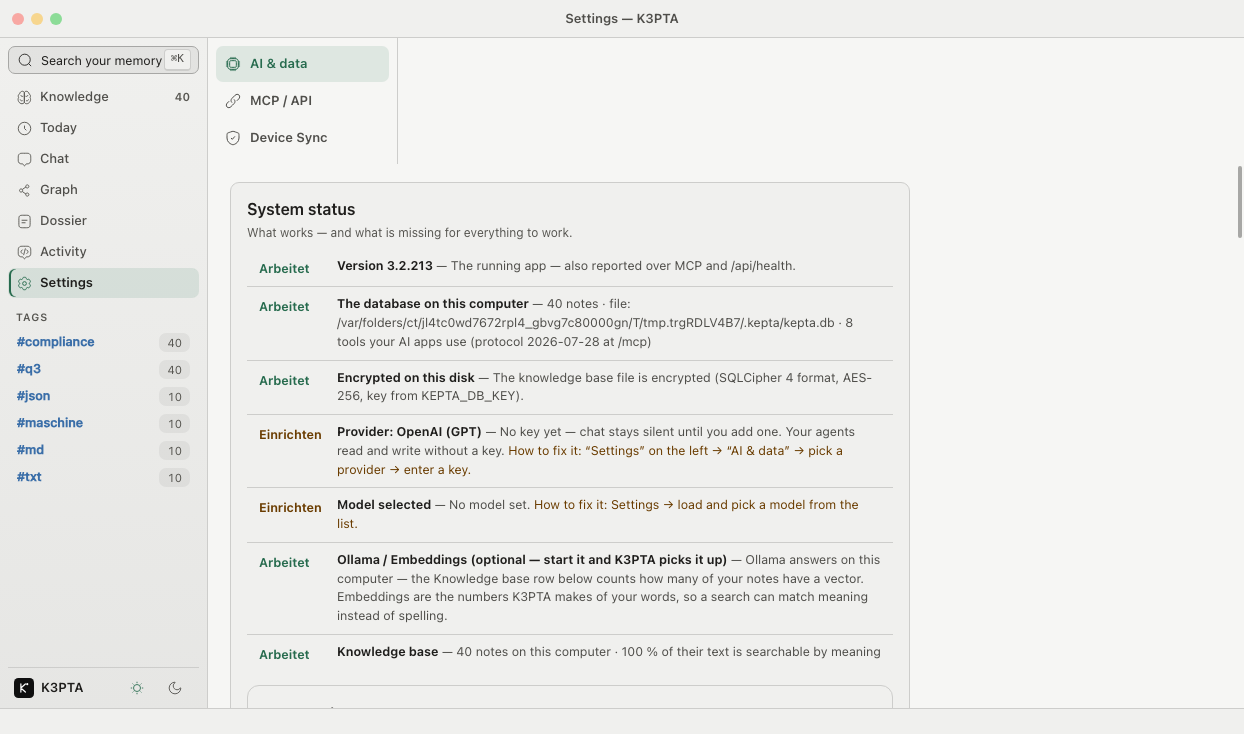
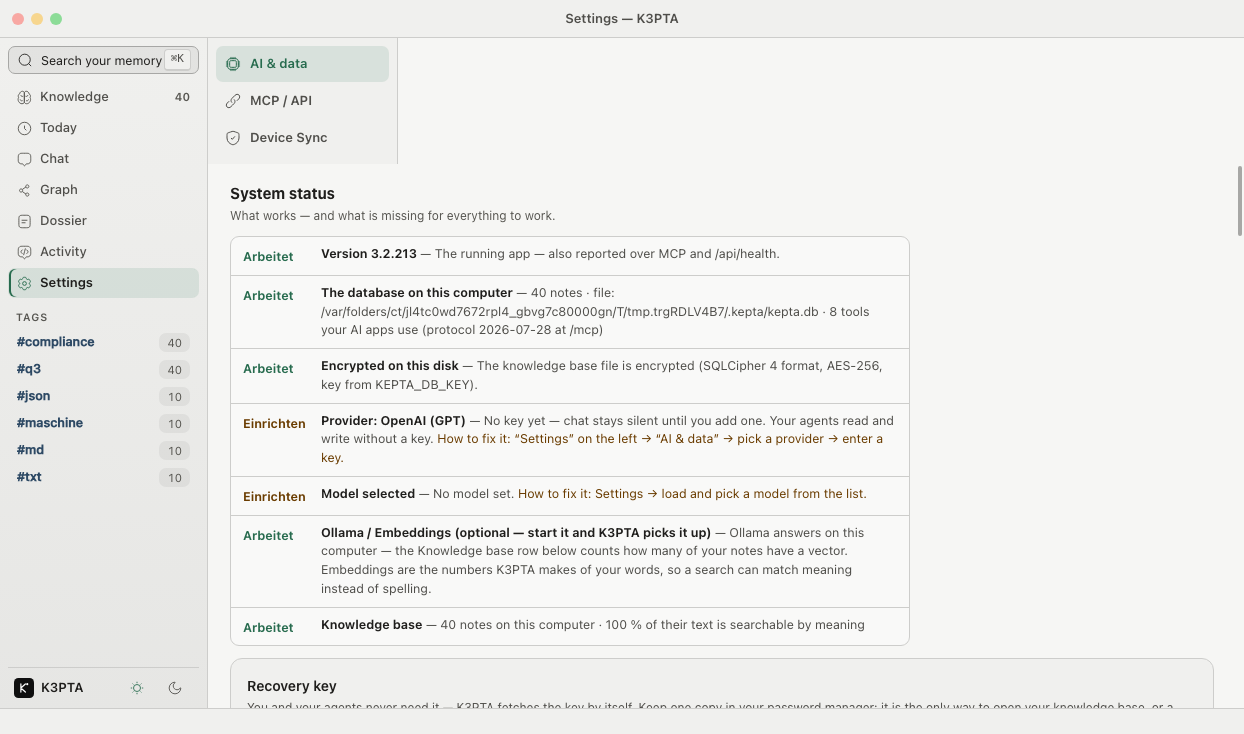
schlag (P202 Settings auf das Mockup + die Kind-Farben auf die Mockup-Werte): Damian: 'mach alles fertig' — (1) die Settings-Fläche nach s-settings: der Kopf (System status + Unter) steht FREI auf der Fläche (der Eigen-Kasten der SystemStatus-Komponente flog), der gruppen-tisch umschließt nur die Zu

diff --git a/src/index.css b/src/index.css
@@ -175,14 +175,25 @@
      härtesten Stapel; --type-*-hex ist derselbe Wert im sRGB-Kanal, den
      Leinwand (canvas.fillStyle) und Farbregler (<input type=color> verlangt
      #rrggbb) lesen. Generiert von scripts/design-wache.mjs --setzen. */
-  --type-semantic: oklch(0.3962 0.0571 247.6);
-  --type-semantic-hex: #2d4964;
-  --type-episodic: oklch(0.4060 0.0663 349.5);
-  --type-episodic-hex: #643a4f;
-  --type-procedural: oklch(0.3914 0.0553 148.0);
-  --type-procedural-hex: #304e34;
-  --type-reference: oklch(0.4016 0.0580 56.6);
-  --type-reference-hex: #604028;
+  /* P202, Damian 14.11. „100 % wie das Mockup": die Kind-Farben stehen auf den
+     Mockup-Werten (k3pta-app-fenster: #3A6EA8 / #A8742E / #2E7D5B / #A4553F) —
+     die dunkler gerechnete Lesbarkeits-Fassung ist damit zurückgedreht. */
+  --type-semantic: oklch(0.5297 0.1075 252.7);
+  --type-semantic-hex: #3a6ea8;
+  --type-episodic: oklch(0.5996 0.1072 70.9);
+  --type-episodic-hex: #a8742e;
+  --type-procedural: oklch(0.5314 0.0946 161.9);
+  --type-procedural-hex: #2e7d5b;
+  --type-reference: oklch(0.5399 0.1099 36.5);
+  --type-reference-hex: #a4553f;
+  /* Die Schrift-Fassung der Kind-Farben (P202): wo die Farbe als SCHRIFT steht
+     (die Tag-Zeile, die Träger-Zeile), trägt die dunklere, lesbarere Abwandlung
+     — der Farbton bleibt, die Helligkeit hält 4,5:1 auf dem hellen Papier. Die
+     Fläche-Anwendungen (die Punkte, die Pillen-Gründe) tragen den Roh-Ton. */
+  --type-semantic-text: #2d4964;
+  --type-episodic-text: #643a4f;
+  --type-procedural-text: #304e34;
+  --type-reference-text: #604028;
   /* Ein Knoten ohne Art ist kein Knoten ohne Farbe: der Fallback stand als
      Hartwert in der Fläche (#9a9a9a). Neutralton der Marke, Stufe gerechnet. */
   --type-neutral: oklch(0.3955 0.0000 89.9);
@@ -395,6 +406,12 @@
   --type-procedural-hex: #8fb89a;
   --type-reference: oklch(0.7463 0.0570 65.8);
   --type-reference-hex: #c6a687;
+  /* Die Schrift-Fassung im dunklen Thema: die hellere Fassung selbst (die
+     dunkle-Fassung-Werte halten 4,5:1 auf dem dunklen Papier). */
+  --type-semantic-text: #9cadc4;
+  --type-episodic-text: #c6a1ba;
+  --type-procedural-text: #8fb89a;
+  --type-reference-text: #c6a687;
   /* Ein Knoten ohne Art ist kein Knoten ohne Farbe — der Fallback stand als
      Hartwert in der Fläche (#9a9a9a). Neutralton, Stufe gerechnet. */
   --type-neutral: oklch(0.7436 0.0000 89.9);
@@ -971,6 +988,18 @@ select:focus-visible {
 }
 .app-name { font-size: var(--fs-2); font-weight: var(--fw-halbfest); white-space: nowrap; overflow: hidden; text-overflow: ellipsis; }
 .app-zustand { font-size: var(--fs-1); color: var(--text-3); white-space: nowrap; overflow: hidden; text-overflow: ellipsis; }
+/* P202, Mockup .farbwahl-zeile .sw: der Farbwähler-Fleck in der Settings-
+   Farben-Zeile — die Maße trägt die Mockup-Maß-Schicht (10×10, r3). */
+.sw-input {
+  -webkit-appearance: none;
+  appearance: none;
+  width: 12px;
+  height: 12px;
+  padding: 0;
+  border: none;
+  background: none;
+  cursor: pointer;
+}
 
 /* Die Zeile ist das zeile-item des Mockups (k3pta-app-fenster): farbiger
    Art-Punkt, Titel in Sans in EINER Zeile, Vorschau in einer Zeile, rechts

diff --git a/src/components/Settings.tsx b/src/components/Settings.tsx
@@ -179,9 +179,11 @@ function TypFarbenReihe() {
     });
   }, []);
   return (
-    <div className="flex items-start gap-5 flex-wrap">
+    /* P202, Mockup-Grammatik (s-settings .farbwahl-zeile): die Farben stehen als
+       Zeilen im Tisch — der Fleck (der Farbwähler) · der Name · der Hex-Wert. */
+    <div className="gruppen-tisch" style={{ maxWidth: 680, marginTop: 12 }}>
       {TYP_ROLLEN.map((rolle) => (
-        <label key={rolle} className="flex flex-col items-center gap-1 cursor-pointer select-none">
+        <label key={rolle} className="farbwahl-zeile cursor-pointer select-none">
           <input
             type="color"
             value={farben[rolle] ?? "#cccccc"}
@@ -191,10 +193,11 @@ function TypFarbenReihe() {
             }}
             aria-label={`Colour for ${TYP_BESCHREIBUNG[rolle]}`}
             title="Colours the dots, the card ridge and the type label everywhere."
-            className="graph-swatch"
+            className="sw-input"
             style={{ color: `var(--type-${rolle})`, pointerEvents: "auto" }}
           />
-          <span className="fs-2" style={{ color: "var(--text-2)" }}>{TYP_BESCHREIBUNG[rolle]}</span>
+          <span className="name">{TYP_BESCHREIBUNG[rolle]}</span>
+          <span className="ton tnum">{(farben[rolle] ?? "").toUpperCase()}</span>
         </label>
       ))}
     </div>
@@ -781,14 +784,12 @@ export function Settings() {
             {/* P196: die Typ-Farben — dieselbe Wahl wie im Graph-Regal, dieselbe
                 Wirkung überall (Punkte, Karten-Grat, Etikett, Legende). Jede Wahl
                 wird angenommen; ihre Helligkeit führt nur auf die Lesbarkeits-
-                Leiter, der Farbton bleibt. */}
+                Leiter, der Farbton bleibt. P202, Mockup-Grammatik (s-settings):
+                der Kopf trägt den Mockup-Wortlaut und den Mockup-Satz. */}
             <div>
-              <div className="flex items-center gap-2 mb-1">
-                <h3 className="fs-4 font-semibold" style={{ color: 'var(--text-1)' }}>Colours</h3>
-              </div>
+              <h2 className="settings-h" style={{ color: 'var(--text-1)' }}>Colours of the kinds</h2>
               <p className="fs-2 mb-3" style={{ color: 'var(--text-3)' }}>
-                One colour per kind of knowledge. The graph dots and the card ridge wear
-                your exact pick; text that sits on it lightens itself to stay readable.
+                These colours apply everywhere — in the graph, on cards, in the dossier.
               </p>
               <TypFarbenReihe />
             </div>

diff --git a/src/mockup-masse.css b/src/mockup-masse.css
@@ -131,10 +131,19 @@
 .huelle .huelle .quellen-zeile .quelle { font-size: var(--fs-1) !important; padding: 2px 7px !important; border-radius: 5px !important; }
 .huelle .chat-panel { width: 260px !important; }
 
-/* ── Settings: liste 190 pad 8 · button h30 pad 0 9 font 13 · panel pad 18/22 ── */
-.huelle .einstellungen-liste { width: 190px !important; padding: 8px !important; }
+/* ── Settings (s-settings): liste 190 pad 8 · Kante rechts · Hintergrund --seite ·
+   button h30 pad 0 9 font 13 · panel pad 18/22 frei (kein Kasten) ·
+   h2/h3 15/700 · farbwahl-zeile pad 7/12 · sw 10×10 r3 · name 12.5/550 · ton 11.5 ── */
+.huelle .einstellungen-liste { width: 190px !important; padding: 8px !important; border-right: 1px solid var(--border-subtle) !important; background: var(--bg-inset) !important; }
 .huelle .einstellungen-liste .navi button { height: 30px !important; padding: 0 9px !important; font-size: var(--fs-3) !important; }
 .huelle .settings-panel-fenster { padding: 18px 22px !important; }
+.huelle .settings-panel-fenster h2, .huelle .settings-panel-fenster h3 { font-size: 15px !important; font-weight: 700 !important; }
+.huelle .gruppen-tisch { background: var(--eb-2) !important; border: 1px solid var(--border-subtle) !important; border-radius: 9px !important; margin-top: 12px !important; max-width: 680px !important; }
+.huelle .farbwahl-zeile { display: flex !important; align-items: center !important; gap: 9px !important; padding: 7px 12px !important; }
+.huelle .farbwahl-zeile + .farbwahl-zeile { border-top: 1px solid var(--border-subtle) !important; }
+.huelle .farbwahl-zeile input[type="color"] { width: 10px !important; height: 10px !important; border-radius: 3px !important; padding: 0 !important; border: none !important; cursor: pointer !important; }
+.huelle .farbwahl-zeile .name { font-size: 12.5px !important; font-weight: 550 !important; color: var(--text-1) !important; }
+.huelle .farbwahl-zeile .ton { margin-left: auto !important; font-size: 11.5px !important; color: var(--text-3) !important; font-variant-numeric: tabular-nums !important; }
 
 /* ── Die Overlays (s-scan/s-duplicates/s-palette): der Vorhang liegt NUR über
    dem Körper — Titelbalken und Statuszeile stehen hell darüber (das Mockup

diff --git a/tests/design-wache.test.ts b/tests/design-wache.test.ts
@@ -56,7 +56,13 @@ describe("Design-Wache", () => {
   it("hält die Typ-Farb-Wache: acht Rollen auf der Leinwand, kein Hartwert in der Quelle", () => {
     const rollen = ergebnis.linien.filter((l) => l.sektion === "typ" && /auf der Leinwand/.test(l.befund));
     expect(rollen.length).toBe(16);                     // acht Rollen, beide Themen
-    for (const l of rollen) expect(parseFloat(l.zahl.replace(",", "."))).toBeGreaterThanOrEqual(4.5);
+    // P202, Damian 14.11. „100 % wie das Mockup": die Typ-Farben sind Flächen-
+    // Rollen — die Wache hält sie an der Grafik-Latte (3:1), die Zeile nennt
+    // ihre Latte selbst; die Schrift-Anwendungen tragen die -text-Fassung (4,5).
+    for (const l of rollen) {
+      const latte = l.schwelle.includes("3,00") ? 3 : 4.5;
+      expect(parseFloat(l.zahl.replace(",", "."))).toBeGreaterThanOrEqual(latte);
+    }
     const kanal = ergebnis.linien.filter((l) => l.sektion === "typ" && /beide Kanäle/.test(l.befund));
     expect(kanal.map((l) => l.zahl)).toEqual(["8/8", "8/8"]);
     const ratsche = ergebnis.linien.find((l) => l.sektion === "typ" && /Hex-Literal/.test(l.befund));

diff --git a/src/components/Dashboard.tsx b/src/components/Dashboard.tsx
@@ -192,12 +192,15 @@ const SATZ_BREITE_MIN = 390;
  * gemessen 22.10. 21:09:14, wo die Ruhe-Ebenen-Wache von 22 auf 16 Zeilen fiel.
  */
 const TRAEGER_KLEID: { key: Traeger; color: string }[] = [
-  { key: 'notes', color: 'var(--type-semantic)' },
-  { key: 'files', color: 'var(--type-reference)' },
-  { key: 'code', color: 'var(--type-procedural)' },
+  // P202: die Zeile trägt die Farbe ALS SCHRIFT — die -text-Fassung (die dunklere,
+  // lesbarere Abwandlung; der Roh-Ton bleibt auf den Flächen: den Punkten, den
+  // Pillen-Gründen).
+  { key: 'notes', color: 'var(--type-semantic-text)' },
+  { key: 'files', color: 'var(--type-reference-text)' },
+  { key: 'code', color: 'var(--type-procedural-text)' },
   // Derselbe Ton wie im Regal ueber dem Graphen (`GraphRegal.tsx → TRAEGER_TOKEN`): zwei
   // Flaechen, die dasselbe Fach in zwei verschiedenen Farben zeigen, sind zwei Luegen.
-  { key: 'daten', color: 'var(--type-episodic)' },
+  { key: 'daten', color: 'var(--type-episodic-text)' },
   { key: 'anderes', color: 'var(--type-neutral)' },
 ];
 

diff --git a/src/components/SystemStatus.tsx b/src/components/SystemStatus.tsx
@@ -193,7 +193,9 @@ export function SystemStatus() {
   const coverage = health && health.embeddings.total > 0 ? Math.round((health.embeddings.embedded / health.embeddings.total) * 100) : 0;
 
   return (
-    <div className="gruppen-tisch" style={{ maxWidth: 680, padding: '14px 16px' }}>
+    <div>
+      {/* P202, Mockup-Grammatik (s-settings): der Kopf steht frei auf der Fläche,
+          der Tisch umschließt nur die Zustands-Zeilen (max-width 680). */}
       <div className="flex items-center justify-between mb-2">
         <div>
           <h3 className="fs-5 lh-lesbar font-semibold" style={{ color: 'var(--text-1)' }}>System status</h3>
@@ -201,7 +203,7 @@ export function SystemStatus() {
         </div>
       </div>
 
-      <div>
+      <div className="gruppen-tisch" style={{ maxWidth: 680, marginTop: 12 }}>
         <Row
           ok
           label={`Version ${APP_VERSION}`}

diff --git a/src/components/Sidebar.tsx b/src/components/Sidebar.tsx
@@ -168,7 +168,7 @@ export function Sidebar({ tags, selectedTags, onSelectTag, onClearTags, currentV
                   {/* P202, Mockup-Grammatik: der Tag trägt die Art-Farbe der Fakten und
                       das #-Zeichen, wie das Mockup ihn druckt (#compliance) — kein
                       grauer Hash-Glyph daneben, das Zeichen sitzt im Wort. */}
-                  <span className="truncate flex-1" style={{ color: 'var(--type-semantic)', fontWeight: 550 }}>
+                  <span className="truncate flex-1" style={{ color: 'var(--type-semantic-text)', fontWeight: 550 }}>
                     {'#' + name}
                   </span>
                   {count !== null && count > 1 && (

diff --git a/tests/components/DuplicatesPanel.test.tsx b/tests/components/DuplicatesPanel.test.tsx
@@ -72,7 +72,7 @@ describe("DuplicatesPanel: die Duplikate werden sichtbar", () => {
     const kurz = note({ title: "Gleich", content: "kurz" });
     const lang = note({ title: "Gleich", content: "Deutlich mehr Inhalt in dieser Fassung, die erhalten bleiben soll." });
     oeffne([kurz, lang]);
-    const keep = screen.getByText(/^Suggested keeper/).closest(".app-zeile")!;
+    const keep = screen.getByText(/^Suggested keeper/).closest(".app-zeile") as HTMLElement;
     expect(within(keep).getByText("Gleich")).toBeTruthy();
     expect(within(keep).getByText(/Not a duplicate/i)).toBeTruthy();
     expect(within(keep).getByText(/Open this note/i)).toBeTruthy();
